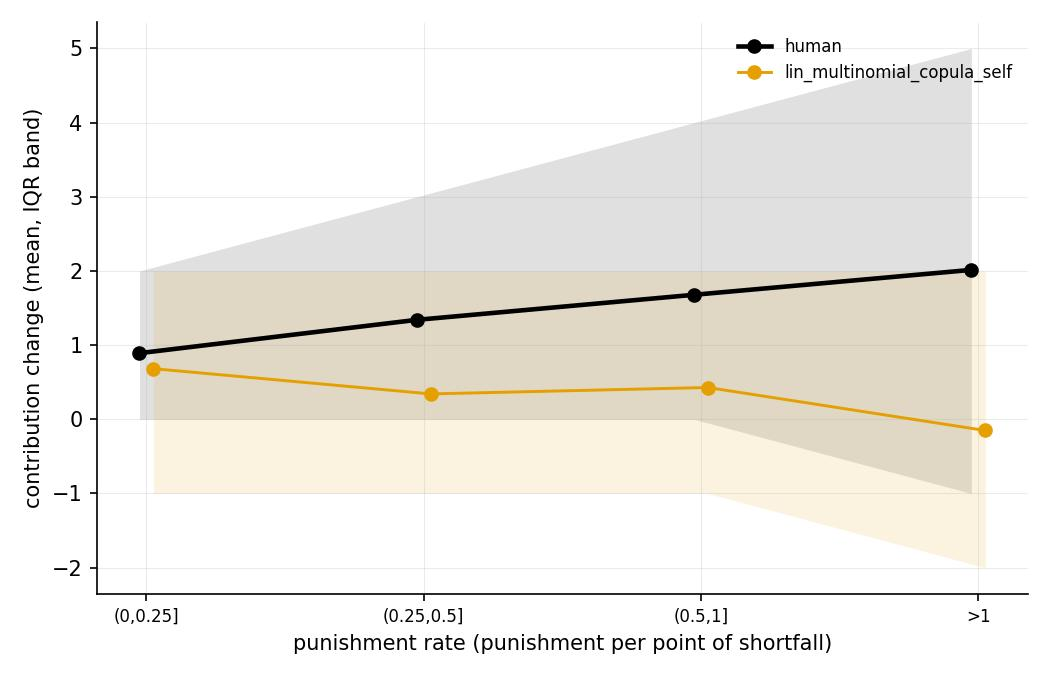
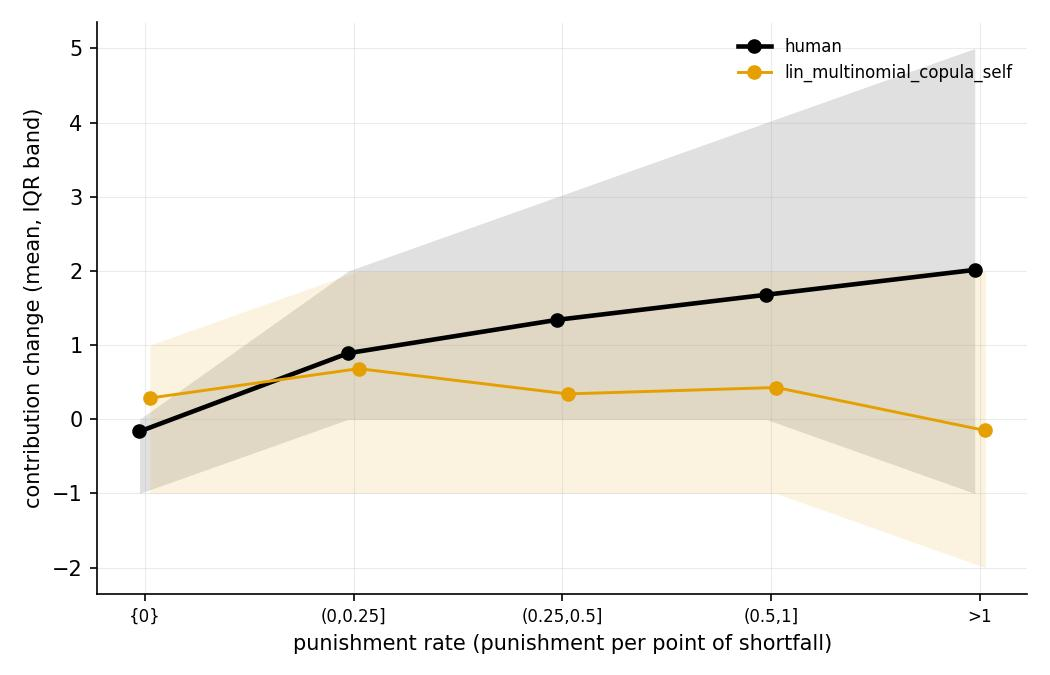
Add the unpunished as a {0} bin to RCB
- RCB's population kept only punishment > 0, so the unpunished (about two
  thirds of its rows) never entered it; that hid a sign difference and made
  RCB look inconsistent with CB
- on the #179 frontier sim: unpunished humans drift -0.17, simulated players
  +0.29, while every punished bin rises less in the sim than in humans
- human-frequency weights, as for the other R bins
- RCE keeps its punished-only population via its own punishment > 0 filter;
  its values are unchanged
- tests: human {0} pin -0.165 over 4607 rows, fixture values hand-counted
- re-evaluated the #179 frontier sim with the 22-row suite: only RCB moves,
  2.32 -> 3.16 (noise ceiling 0.348 -> 0.185); mean 1.0988 -> 1.1374
- issue #224 item A2

diff --git a/src/aimanager/tests/test_eval_metrics.py b/src/aimanager/tests/test_eval_metrics.py
@@ -259,9 +259,12 @@ def test_human_punishment_pins(human):
 
 def test_human_response_pins(human):
     rcb = R.rcb(human)
+    # unpunished humans drift down; every punished bin rises
+    assert rcb.loc["{0}"] == pytest.approx(-0.165, abs=1e-3)
     assert rcb.loc["(0,0.25]"] == pytest.approx(0.892, abs=1e-3)
     assert rcb.loc[">1"] == pytest.approx(2.014, abs=1e-3)
     assert R.weights("RCB", human).to_dict() == {
+        "{0}": 4607,
         "(0,0.25]": 1238,
         "(0.25,0.5]": 672,
         "(0.5,1]": 473,
@@ -277,7 +280,8 @@ def test_human_response_pins(human):
         "10-14": 560,
         "15-19": 206,
     }
-    assert R.weights("RCE", human).sum() == R.weights("RCB", human).sum()
+    # RCE covers exactly RCB's punished bins
+    assert R.weights("RCE", human).sum() == R.weights("RCB", human).drop("{0}").sum()
     assert R.rcd(human).loc["pull"] == pytest.approx(0.430247, abs=1e-5)
     # 539 Q4-study events minus 26 tainted by no-input masking
     events = R._switch_events(human).dropna(subset=["dc", "receiving_mean"])
@@ -436,12 +440,15 @@ def test_rca_d_raises_on_empty_stratum(response_frame):
 
 def test_rcb_stat_and_weights(response_frame):
     # a: rate 5/10=0.5 dc +2 | c: 2/16=0.125 dc 0 | b: 13/12>1 dc +1 |
-    # d: 9/14 dc +1; e is punished but dc-invalid, i is full -> both out
+    # d: 9/14 dc +1; e is punished but dc-invalid, i is full -> both out.
+    # {0}: 11 unpunished dc-valid non-full rows (ep0 b2 d2 a3 c3 and all of
+    # r4, ep1 f3 g3 h3); dc sums to -8 (a3 -7 across the switch, c3 -1)
     stat = R.rcb(response_frame)
     assert stat.to_dict() == pytest.approx(
-        {"(0,0.25]": 0.0, "(0.25,0.5]": 2.0, "(0.5,1]": 1.0, ">1": 1.0}
+        {"{0}": -8 / 11, "(0,0.25]": 0.0, "(0.25,0.5]": 2.0, "(0.5,1]": 1.0, ">1": 1.0}
     )
     assert R.weights("RCB", response_frame).to_dict() == {
+        "{0}": 11,
         "(0,0.25]": 1,
         "(0.25,0.5]": 1,
         "(0.5,1]": 1,
@@ -450,14 +457,15 @@ def test_rcb_stat_and_weights(response_frame):
 
 
 def test_rcb_d(response_frame):
-    # bump b's round-4 contribution 9 -> 11: only the ">1" bin's mean
-    # moves (+1 -> +3), so d = 2/4 with equal bin counts
+    # bump b's round-4 contribution 9 -> 11: the ">1" bin's mean moves
+    # +1 -> +3 (|2|, weight 1) and b's unpunished round-4 dc 0 -> -2 moves
+    # the {0} mean by 2/11 (weight 11), so d = (2 + 11 * 2/11) / 15
     bumped = response_frame.copy()
     bumped.loc[
         (bumped["participant_code"] == "b") & (bumped["round_number"] == 4),
         "contribution",
     ] = 11.0
-    assert R.d("RCB", response_frame, bumped) == pytest.approx(0.5)
+    assert R.d("RCB", response_frame, bumped) == pytest.approx(4 / 15)
 
 
 def test_rcc_contrast(response_frame):

diff --git a/src/aimanager/evaluation_suite/metrics.py b/src/aimanager/evaluation_suite/metrics.py
@@ -30,8 +30,8 @@ GROUP_CELL = ["episode_id", "round_number", "group_id"]
 ROUNDS = pd.RangeIndex(24, name="round_number")
 DECISION_ROUNDS = pd.Index([3, 7, 11, 15, 19], name="round_number")
 
-RCB_EDGES = [0.0, 0.25, 0.5, 1.0, float("inf")]
-RCB_LABELS = ["(0,0.25]", "(0.25,0.5]", "(0.5,1]", ">1"]
+RCB_EDGES = [-1.0, 0.0, 0.25, 0.5, 1.0, float("inf")]
+RCB_LABELS = ["{0}", "(0,0.25]", "(0.25,0.5]", "(0.5,1]", ">1"]
 
 RCE_EDGES = [-0.5, 4.5, 9.5, 14.5, 19.5]
 RCE_LABELS = ["0-4", "5-9", "10-14", "15-19"]
@@ -306,9 +306,10 @@ class ResponseMetrics(MetricGroup):
         return self.rca(df).groupby(level=0).size()
 
     def rcb(self, df):
-        """Mean contribution change of punished non-full contributors per
+        """Mean contribution change of non-full contributors per
         punishment-rate bin; rate = punishment / (20 - contribution),
-        punishment per point of shortfall."""
+        punishment per point of shortfall. The unpunished are the `{0}`
+        bin, so the drift of unpunished players is compared too."""
         pop = self._rcb_population(df)
         stat = pop.groupby("rate_bin", observed=False)["dc"].mean()
         stat.index = stat.index.astype(str)
@@ -350,7 +351,7 @@ class ResponseMetrics(MetricGroup):
     def rce(self, df):
         """Punishment response slope: per contribution band, the OLS slope
         of dc on punishment received over punished non-full contributors
-        (RCB's population) -- how the next-round change depends on the
+        (RCB's punished bins) -- how the next-round change depends on the
         dose, at a fixed level. NaN where a band is empty or every
         punishment in it is the same."""
         return self._rce_fit(df)["slope"].rename("RCE")
@@ -408,7 +409,7 @@ class ResponseMetrics(MetricGroup):
     def _rcb_population(self, df):
         d = self._with_dc(df)
         pop = d[
-            (d["punishment"] > 0) & (d["contribution"] < 20) & d["dc"].notna()
+            d["punishment"].notna() & (d["contribution"] < 20) & d["dc"].notna()
         ].copy()
         rate = pop["punishment"] / (20 - pop["contribution"])
         pop["rate_bin"] = pd.cut(rate, RCB_EDGES, labels=RCB_LABELS)
@@ -416,6 +417,7 @@ class ResponseMetrics(MetricGroup):
 
     def _rce_population(self, df):
         pop = self._rcb_population(df)
+        pop = pop[pop["punishment"] > 0].copy()
         pop["band"] = pd.cut(pop["contribution"], RCE_EDGES, labels=RCE_LABELS)
         return pop
 

diff --git a/notes/evaluation_metric_defs.md b/notes/evaluation_metric_defs.md
@@ -157,13 +157,16 @@ kinds of round: no switch was allowed, the player switched, the player chose to
 stay, the player stayed but their group's composition changed.
 Canonical: EMD per round type, averaged over the 4 types.
 
-**RCB -- reaction to punishment:** the average contribution change of punished
-non-full contributors, split by punishment rate bins (0, 0.25], (0.25, 0.5],
-(0.5, 1], > 1; how strongly people respond to being punished. Punishment rate
-= punishment / (20 − contribution), punishment per point of shortfall: "> 1"
-means punished more than the entire shortfall, and the rate is undefined at
-contribution 20 -- exactly the ceiling case RCC exists for.
-Canonical: abs Δ per bin, averaged over the 4 bins.
+**RCB -- reaction to punishment:** the average contribution change of non-full
+contributors, split by punishment rate bins {0} (unpunished), (0, 0.25],
+(0.25, 0.5], (0.5, 1], > 1; how strongly people respond to being punished, and
+how the unpunished drift. Punishment rate = punishment / (20 − contribution),
+punishment per point of shortfall: "> 1" means punished more than the entire
+shortfall, and the rate is undefined at contribution 20 -- exactly the ceiling
+case RCC exists for. The {0} bin is about two thirds of the rows; without it,
+a model whose unpunished players drift up while humans' drift down could look
+under-responsive on RCB and over-rising on CB at once.
+Canonical: abs Δ per bin, averaged over the 5 bins with human-frequency weights.
 
 **RCC -- reaction at the ceiling:** among full contributors (gave 20), the average
 contribution change of punished minus unpunished players; RCB's rate is
@@ -175,7 +178,7 @@ change on the gap between the receiving group's mean contribution and their own;
 whether switchers adapt toward their new group.
 Canonical: abs Δ of the regression slope (the pull coefficient).
 
-**RCE -- punishment response slope:** over RCB's population (punished non-full contributors with a valid contribution change), split into contribution bands 0-4, 5-9, 10-14, 15-19, the OLS slope of the contribution change on the punishment received; how the reaction depends on the dose at a fixed contribution level, which is the channel a manager actually controls. RCB's rate mixes level and dose (a rate above one is reached by a low contributor punished heavily and by a high contributor punished lightly), and its bin means can be matched by the right composition without any within-level response; the slope cannot. Humans comply at low levels and withdraw at high ones (slopes +0.14, +0.10, -0.08, -0.16). The unpunished are left out on purpose: their contribution change sits below the punished rows' regression line in every band (a step at zero dose, the extensive margin), so pooling them would blend that step into the dose response and flip the 10-14 sign. A band whose punishments are all equal has no slope and counts as empty.
+**RCE -- punishment response slope:** over RCB's punished bins (punished non-full contributors with a valid contribution change), split into contribution bands 0-4, 5-9, 10-14, 15-19, the OLS slope of the contribution change on the punishment received; how the reaction depends on the dose at a fixed contribution level, which is the channel a manager actually controls. RCB's rate mixes level and dose (a rate above one is reached by a low contributor punished heavily and by a high contributor punished lightly), and its bin means can be matched by the right composition without any within-level response; the slope cannot. Humans comply at low levels and withdraw at high ones (slopes +0.14, +0.10, -0.08, -0.16). The unpunished are left out on purpose: their contribution change sits below the punished rows' regression line in every band (a step at zero dose, the extensive margin), so pooling them would blend that step into the dose response and flip the 10-14 sign. A band whose punishments are all equal has no slope and counts as empty.
 Canonical: abs Δ of the slope per band, averaged over the 4 bands with human-frequency weights.
 
 **RSA -- switching after punishment:** the share of punished players who switch
